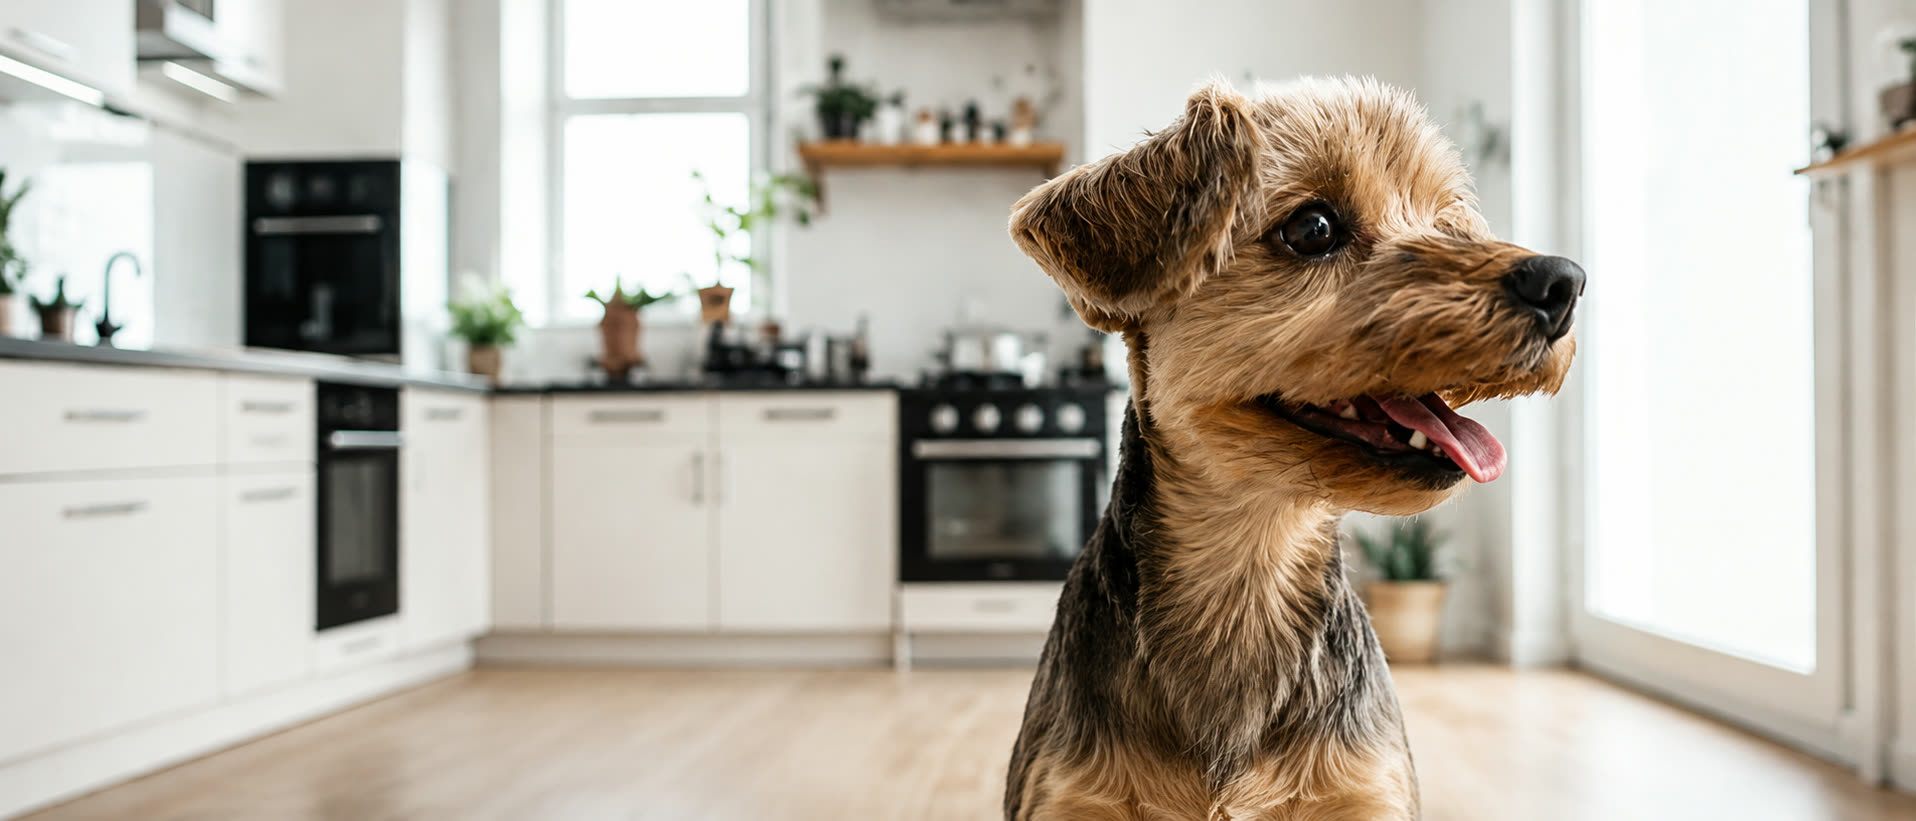
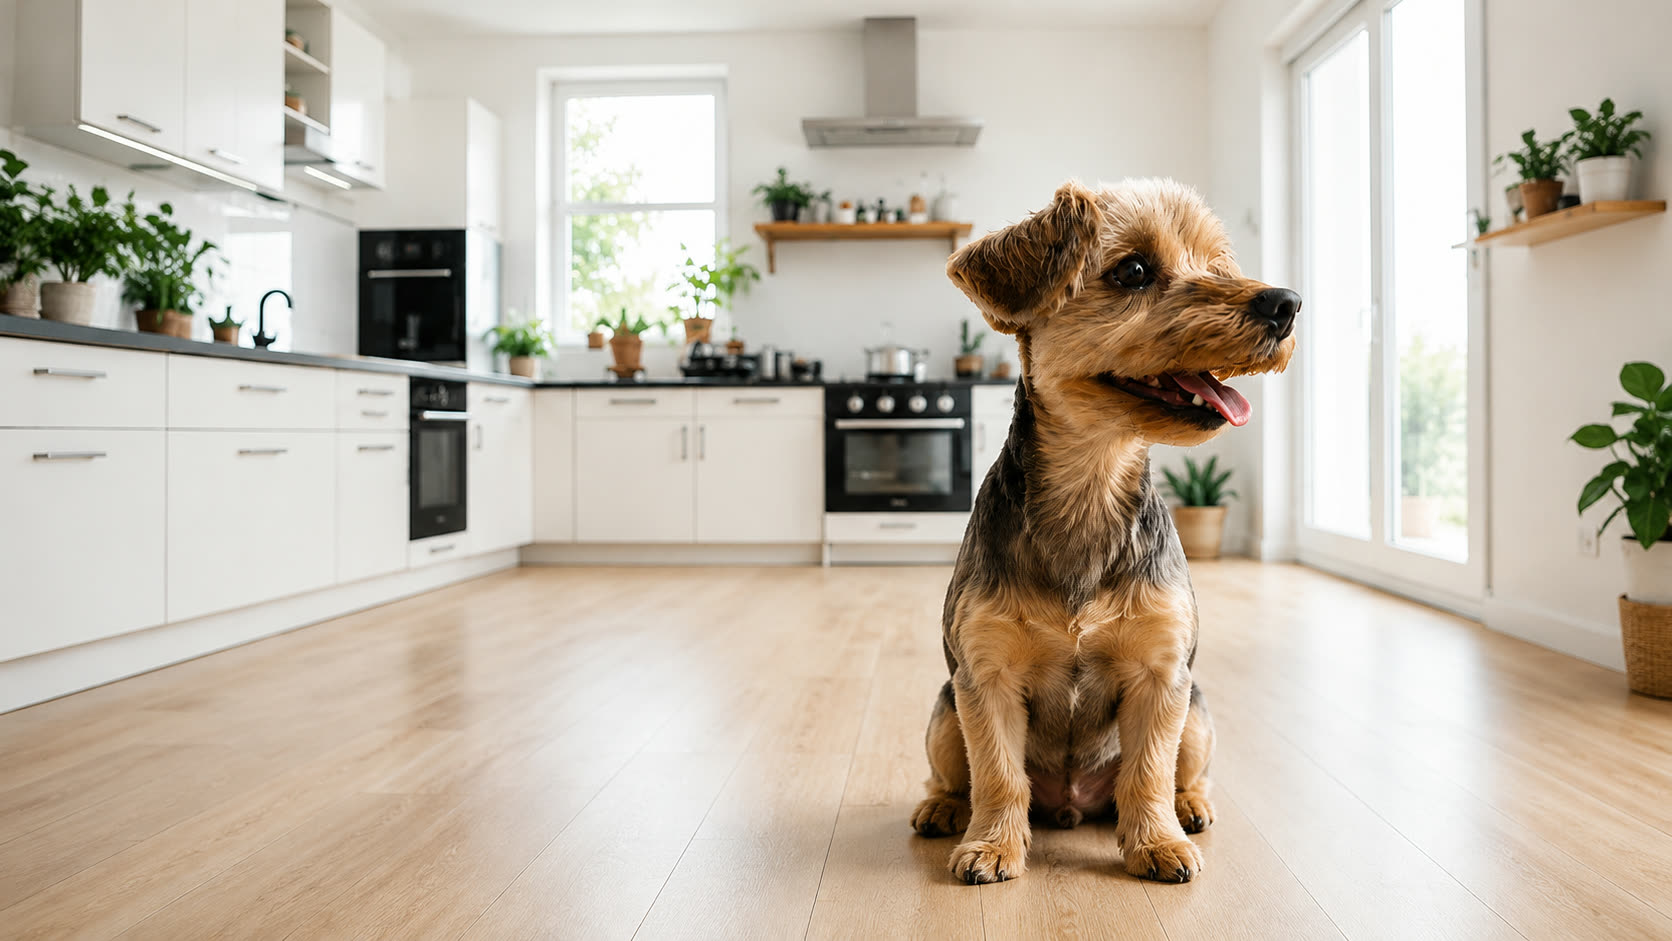
FAQヒーロー帯の画像を差し替え、PC/スマホの被写体位置を調整

diff --git a/faq.html b/faq.html
@@ -25,15 +25,14 @@
   <style>
     /* ヒーロー */
     .faq-hero {
-      background: url('images/hero/faq-dog.jpg') center 20%/cover no-repeat;
-      /* PC: 20% / スマホ: 30%（下のメディアクエリ） */
-      padding: 140px 20px 110px;
+      background: url('images/hero/faq-dog.jpg') center top/cover no-repeat;
+      padding: 175px 20px 145px;
       text-align: center;
       position: relative;
       overflow: hidden;
     }
     @media (max-width: 767px) {
-      .faq-hero { padding: 90px 20px 36px; background-position: center 30%; }
+      .faq-hero { padding: 108px 20px 50px; background-size: auto 190%; background-position: 62% top; }
     }
     .faq-hero-en {
       font-family: 'Cinzel', serif;
